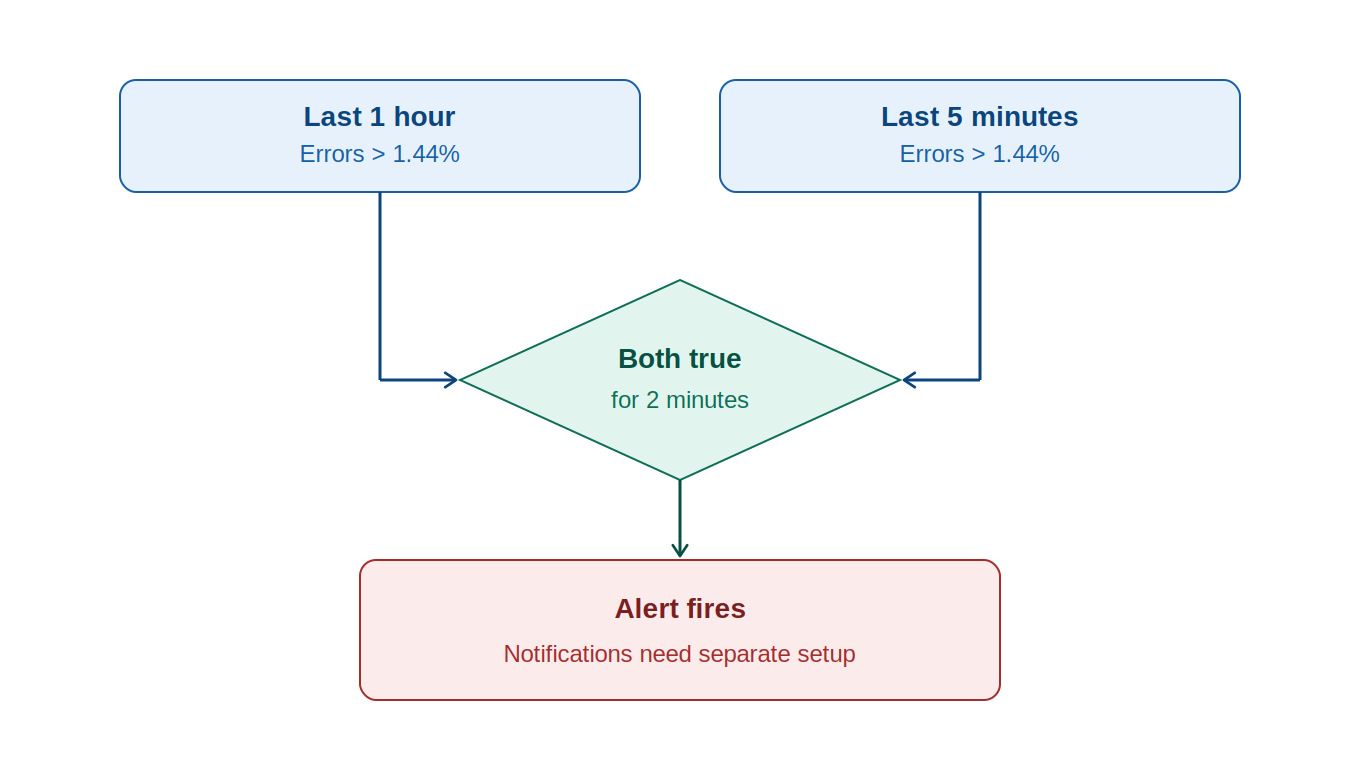
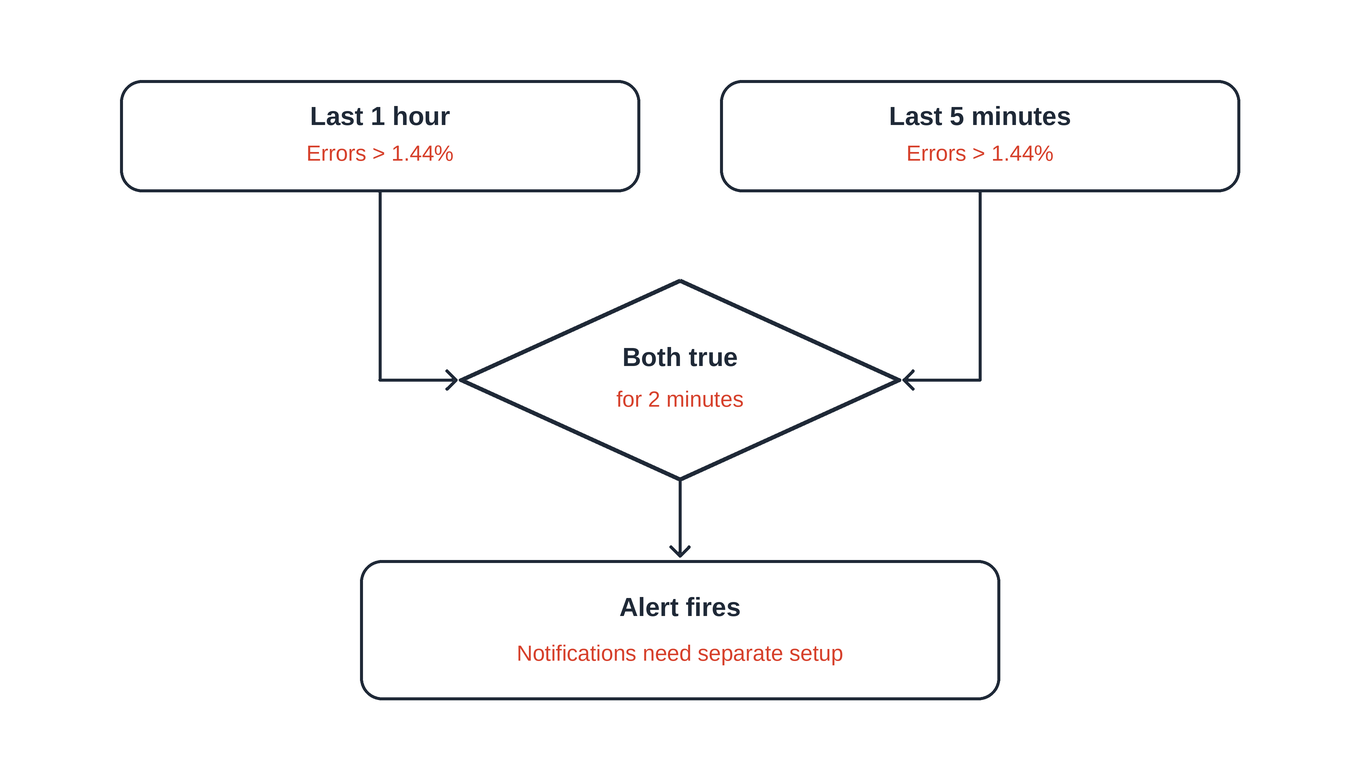
lab02

diff --git a/Milestone 1/Module 3/Lab 02/README.md b/Milestone 1/Module 3/Lab 02/README.md
@@ -1,6 +1,8 @@
 # SLO & Error Budget Definition
 
-![SLOs and error budgets: set an SLO target, allow an error budget, and watch for fast burn](images/budget.png)
+<p align="center">
+  <img src="./images/budget.png" alt="SLOs and error budgets: set an SLO target, allow an error budget, and watch for fast burn" width="800">
+</p>
 
 An application programming interface (API) lets programs request data. Define an Orders API target, calculate its error budget, and write an alert rule.
 
@@ -16,17 +18,27 @@ Define service level indicators (SLIs) and service level objectives (SLOs) for a
 
 ## Deliverable
 
-An SLO document, `slo-document.md`, with the API's request rules, availability target, monthly error budget, and budget burn-rate thresholds. A supporting file, `orders-api-rules.yml`, shows the fast-burn threshold as a Prometheus query sketch.
+An SLO document, `slo-document.md`, with the API's request rules, availability target, monthly error budget, and budget burn-rate thresholds. A supporting file, `orders-api-rules.yaml`, shows the fast-burn threshold as a Prometheus query sketch.
+
+<p align="center">
+  <img src="./images/what-you-create.png" alt="Deliverables: an SLO document and a YAML rule file with dual-window alert conditions" width="800">
+</p>
+
+The SLO document records all three burn-rate thresholds. In this lab, the YAML file implements the 14.4x fast-burn rule; the diagram also lists the 6x threshold as a possible extension.
 
 ## Which Requests Count? (SLI and SLO)
 
-![Which requests count: filter cancellations and health checks to separate good from bad requests](images/which-requests.png)
+<p align="center">
+  <img src="./images/which-requests-orginal.png" alt="Which requests count: filter cancellations and health checks to separate good from bad requests" width="800">
+</p>
 
 A service level indicator (SLI) measures performance; a service level objective (SLO) sets its target. Client cancellations (code 499) and health checks (`/healthz`) are filtered out first. From the remaining valid requests, responses with 2xx, 3xx, and 4xx count as good, while 5xx server errors count as bad.
 
 ## When Do We Alert? (Error Budgets and Burn Rate)
 
-![When do we alert: multi-window burn rate thresholds and notification actions](images/burn-rate-alerting.png)
+<p align="center">
+  <img src="./images/burn-rate-alerting.png" alt="When do we alert: multi-window burn rate thresholds and notification actions" width="800">
+</p>
 
 An error budget is the allowed bad fraction: `1 - SLO`. A 99.9% target over rolling 30 days permits 0.1% failures. Burn rate measures how fast your service spends this budget. At steady traffic, a 1x burn rate uses the budget in 30 days; 14.4x uses it in about two days.
 
@@ -69,11 +81,12 @@ The API used 40% of its budget. Its 99.96% good-request rate exceeds the 99.9% t
 Choose when to notify the team based on how quickly failures use the budget. A page is an urgent notification; a ticket is a task to review later.
 
 ```text
-High error rate over 1 hour AND the last 5 minutes --> urgent alert
+High error rate over 1 hour AND the last 5 minutes
+Both conditions stay true for 2 minutes           --> urgent alert
 High error rate in only one window                --> no fast alert
 ```
 
-**Explanation:** Both windows must exceed the threshold to confirm the problem is continuing.
+**Explanation:** Both windows must exceed the threshold. The fast-burn rule in Step 4 also requires this combined condition to remain true for two minutes, matching the alert diagram.
 
 Create `slo-document.md` in your practice folder and paste this complete document:
 
@@ -125,15 +138,18 @@ Fast-alert threshold: `14.4 x 0.1% = 1.44%`. Review tickets the next business da
 
 ## Step 4: Write the Fast-Burn Alert Rule
 
-Create `orders-api-rules.yml` in your practice folder. Prometheus monitors metrics, and its query language, PromQL, calculates error rates from request counts.
+Create `orders-api-rules.yaml` in your practice folder. Prometheus monitors metrics, and its query language, PromQL, calculates error rates from request counts.
 
-![Fast alert: both 1-hour and 5-minute error rates exceed 1.44% at the same evaluation](images/fast-alert-no-delay.png)
+<p align="center">
+  <img src="./images/fast-alert.png" alt="Fast alert: both 1-hour and 5-minute error rates exceed 1.44% continuously for two minutes" width="800">
+</p>
 
 ```yaml
 groups:
   - name: orders-api-slo
     rules:
       - alert: OrdersAPIErrorBudgetBurnFast
+        for: 2m
         expr: |
           (
             1 - sum(rate(http_requests_total{job="orders-api",code!~"5..|499",route!="/healthz"}[1h]))
@@ -152,15 +168,15 @@ groups:
           summary: "orders-api is burning its error budget fast"
 ```
 
-**What this file does:** Defines an alert that fires at the first rule evaluation where both error rates exceed 1.44%.
+**What this file does:** Defines an alert that fires once both error rates have remained above 1.44% for two minutes across rule evaluations.
 
-`rate()` handles counter resets. The 5-minute lookback smooths recent measurements and confirms that errors are still occurring. This rule omits `for` to avoid an extra pending period after both thresholds are crossed.
+`rate()` handles counter resets. The 5-minute lookback smooths recent measurements and confirms that errors are still occurring. `for: 2m` adds a two-minute pending period after both thresholds are crossed. If either condition stops being true during that period, the alert does not fire.
 
 A lookback window is not a fixed waiting period: a large spike can cross both thresholds before five minutes have passed. Detection time depends on traffic, the error rate, and scrape and rule evaluation intervals. Notification delivery can add further delay. See the [Prometheus alerting rules documentation](https://prometheus.io/docs/prometheus/latest/configuration/alerting_rules/).
 
 ---
 
-## 5. Run the following commands in the terminal
+## Step 5: Check the Rule File
 
 This optional step checks the supporting query sketch. On Linux with an x86-64 processor, download Prometheus and use its `promtool` checker to validate the rule file.
 
@@ -178,14 +194,16 @@ tar -xzf prometheus-3.5.0.linux-amd64.tar.gz
 **Explanation:** Extracts the Prometheus binaries to your practice folder.
 
 ```bash
-./prometheus-3.5.0.linux-amd64/promtool check rules orders-api-rules.yml
+./prometheus-3.5.0.linux-amd64/promtool check rules orders-api-rules.yaml
 ```
 
 **Explanation:** Checks the rule syntax without starting a server.
 
-![Check your rule file: promtool check rules outputs SUCCESS](images/run-output.png)
+<p align="center">
+  <img src="./images/run-output.png" alt="Check your rule file: promtool check rules outputs SUCCESS" width="800">
+</p>
 
-**What to expect:** The output prints `SUCCESS: 1 rules found`, confirming valid syntax. Sending notifications also requires a running Prometheus setup and notification configuration.
+**What to expect:** The output reports `SUCCESS` and one rule found, confirming valid syntax. The diagram uses `promtool` directly; the command above uses the binary from the extracted folder. Sending notifications also requires a running Prometheus setup and notification configuration.
 
 ---
 
